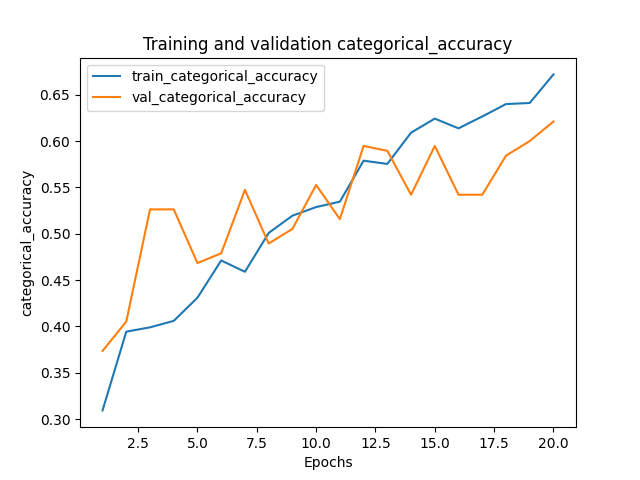
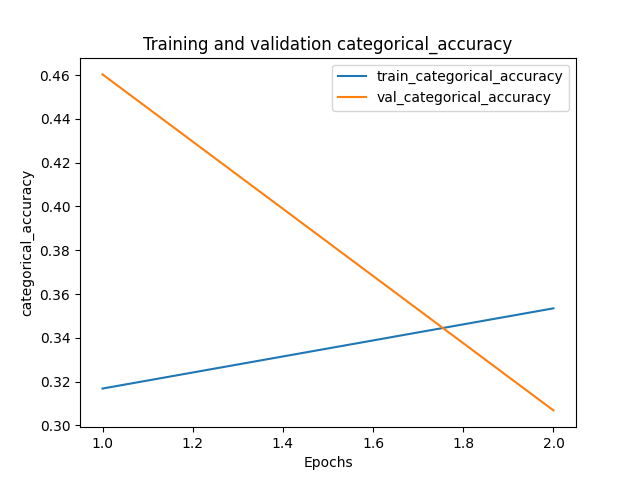
Add data augmentation.

diff --git a/train.py b/train.py
@@ -10,7 +10,7 @@ from keras.preprocessing.image import ImageDataGenerator
 import matplotlib.pyplot as plt
 
 
-def plot_metric(history, metric):
+def plot_metric(history, metric, save_name):
     train_metrics = history.history[metric]
     val_metrics = history.history['val_' + metric]
     epochs = range(1, len(train_metrics) + 1)
@@ -20,60 +20,42 @@ def plot_metric(history, metric):
     plt.xlabel("Epochs")
     plt.ylabel(metric)
     plt.legend(["train_" + metric, 'val_' + metric])
-    plt.show()
+    plt.savefig(save_name)
 
 
-def get_data():
-    tf_training_dataset = tf.keras.preprocessing.image_dataset_from_directory(
-        "formatted_data",
-        labels="inferred",
-        label_mode="categorical",
-        class_names=None,
-        color_mode="rgb",
-        batch_size=32,
-        image_size=(256, 256),
-        shuffle=True,
-        seed=42,
+def get_data_gen():
+    train_data_gen = tf.keras.preprocessing.image.ImageDataGenerator(
+        rotation_range=10,
+        width_shift_range=0.1,
+        height_shift_range=0.1,
+        brightness_range=None,
+        shear_range=0.0,
+        zoom_range=0.1,
+        channel_shift_range=0.0,
+        fill_mode="nearest",
+        cval=0.0,
+        horizontal_flip=True,
         validation_split=0.1,
-        subset="training",
-        interpolation="nearest",
-        follow_links=False,
-        smart_resize=True
     )
 
-    tf_validation_dataset = tf.keras.preprocessing.image_dataset_from_directory(
-        "formatted_data",
-        labels="inferred",
-        label_mode="categorical",
-        class_names=None,
-        color_mode="rgb",
-        batch_size=32,
-        image_size=(256, 256),
-        shuffle=True,
-        seed=42,
-        validation_split=0.1,
-        subset="validation",
-        interpolation="nearest",
-        follow_links=False,
-        smart_resize=True
-    )
-
-    return tf_training_dataset, tf_validation_dataset
+    return train_data_gen
 
 
 def inspect_data():
-    train_data, validation_data = get_data()
-    b = train_data.batch(1)
-    numpy_data = b.as_numpy_iterator()
-    images = list(numpy_data)[0]
-    single_img = images[0][0, 1, :, :, :]
-    img = Image.fromarray(single_img, "RGB")
-    img.show()
+    train_data_gen = get_data_gen()
+    train_generator = train_data_gen.flow_from_directory("formatted_data", subset="training")
+    b = train_generator.next()
+    print(b)
+    # numpy_data = b.as_numpy_iterator()
+    # images = list(numpy_data)[0]
+    # single_img = images[0][0, 1, :, :, :]
+    # img = Image.fromarray(single_img, "RGB")
+    # img.show()
 
 
 def main():
     # os.environ["CUDA_VISIBLE_DEVICES"] = "-1"
-    tf_training_dataset, tf_validation_dataset = get_data()
+    train_data_gen = get_data_gen()
 
     base_model = InceptionV3(weights='imagenet', include_top=False)
 
@@ -97,9 +79,10 @@ def main():
     model.compile(optimizer='rmsprop', loss='categorical_crossentropy',
                   metrics=[tf.keras.metrics.CategoricalAccuracy()])
 
-    history = model.fit(tf_training_dataset, epochs=20, validation_data=tf_validation_dataset)
+    history = model.fit(train_data_gen.flow_from_directory("formatted_data", subset="training"), epochs=30,
+                        validation_data=train_data_gen.flow_from_directory("formatted_data", subset="validation"))
 
-    plot_metric(history, "categorical_accuracy")
+    plot_metric(history, "categorical_accuracy", "dev/pre_train.png")
 
     # at this point, the top layers are well trained and we can start fine-tuning
     # convolutional layers from inception V3. We will freeze the bottom N layers
@@ -120,11 +103,12 @@ def main():
     model.compile(optimizer=SGD(learning_rate=0.0001, momentum=0.9), loss='categorical_crossentropy',
                   metrics=[tf.keras.metrics.CategoricalAccuracy()])
 
-    history = model.fit(tf_training_dataset, epochs=50, validation_data=tf_validation_dataset)
+    history = model.fit(train_data_gen.flow_from_directory("formatted_data", subset="training"), epochs=60,
+                        validation_data=train_data_gen.flow_from_directory("formatted_data", subset="validation"))
 
-    plot_metric(history, "categorical_accuracy")
+    plot_metric(history, "categorical_accuracy", "dev/fine_tune.png")
 
-    model.save("model/river_classifier_model.tf")
+    # model.save("model/river_classifier_model.tf")
 
 
 if __name__ == "__main__":
